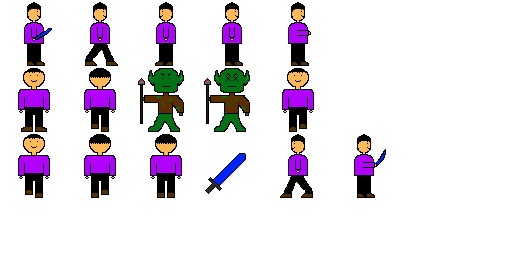
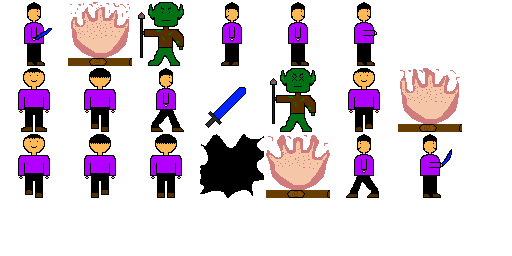
made fire class and animation for fire

diff --git a/core/src/main/java/com/app/adventureone/Main.java b/core/src/main/java/com/app/adventureone/Main.java
@@ -20,6 +20,8 @@ public class Main extends ApplicationAdapter {
     private DeadGoblin deadGoblin;
     private Goblin goblin;
     private Sword sword;
+    private Hole hole;
+    private Fire fire;
     private float deltaTime;
     private ButtonHandler buttonHandler;
 
@@ -33,7 +35,9 @@ public class Main extends ApplicationAdapter {
         goblin = new Goblin(atlas, new Vector2(96, 96), 32, new Rectangle(96, 96, 32, 32), 75, 10);
         deadGoblin = new DeadGoblin(atlas, new Vector2(96, 96), 32, new Rectangle(96, 96, 32, 32), 0, 0, goblin);
         sword = new Sword(atlas, new Vector2(192, 192),32, new Rectangle(192, 192, 32, 32), 2);
-        player = new Player(atlas, new Vector2(0,0), 32, new Rectangle(0, 0, 32, 32), goblin, 100, 25, sword);
+        hole = new Hole(atlas, new Vector2(608, 96), new Rectangle(608, 96, 32, 32),32);
+        player = new Player(atlas, new Vector2(0,0), 32, new Rectangle(0, 0, 32, 32), goblin, 100, 25, sword, hole);
+        fire = new Fire(atlas, new Vector2(256, 256), new Rectangle(256, 256, 32, 32), 32);
         buttonHandler = new ButtonHandler(player);
     }
 
@@ -58,8 +62,10 @@ public class Main extends ApplicationAdapter {
         goblin.draw(batch);
         deadGoblin.draw(batch);
         sword.draw(batch);
+        hole.draw(batch);
+        fire.draw(batch);
+        fire.render(deltaTime);
         player.draw(batch);
-        buttonHandler.font.draw(batch, "test", 100f, 0f);
         batch.end();
 
         if (buttonHandler.isDebug) {
@@ -68,6 +74,8 @@ public class Main extends ApplicationAdapter {
             renderer.rect(player.position.x, player.position.y, player.size, player.size);
             renderer.rect(goblin.position.x, goblin.position.y, goblin.size, goblin.size);
             renderer.rect(sword.position.x, sword.position.y, sword.size, sword.size);
+            renderer.rect(hole.position.x, hole.position.y, hole.size, hole.size);
+            renderer.rect(fire.position.x, fire.position.y, fire.size, fire.size);
             renderer.end();
         }
     }
@@ -79,5 +87,6 @@ public class Main extends ApplicationAdapter {
         renderer.dispose();
         buttonHandler.stage.dispose();
         buttonHandler.font.dispose();
+        player.inventory.clear();
     }
 }

diff --git a/core/src/main/java/com/app/adventureone/Player.java b/core/src/main/java/com/app/adventureone/Player.java
@@ -2,6 +2,7 @@ package com.app.adventureone;
 
 import com.badlogic.gdx.Gdx;
 import com.badlogic.gdx.Input;
+import com.badlogic.gdx.graphics.GL20;
 import com.badlogic.gdx.graphics.g2d.SpriteBatch;
 import com.badlogic.gdx.graphics.g2d.TextureAtlas;
 import com.badlogic.gdx.math.Rectangle;
@@ -19,13 +20,15 @@ public class Player extends Entity {
     private String direction = "down";
     private Goblin goblin;
     private Sword sword;
+    private Hole hole;
     public ArrayList<String> inventory;
 
 
-    public Player(TextureAtlas atlas, Vector2 position, int size, Rectangle rect, Goblin goblin, int hp, int strength, Sword sword) {
+    public Player(TextureAtlas atlas, Vector2 position, int size, Rectangle rect, Goblin goblin, int hp, int strength, Sword sword, Hole hole) {
         super(atlas, "hero", position, size, rect, hp, strength);
         this.goblin = goblin;
         this.sword = sword;
+        this.hole = hole;
 
         inventory = new ArrayList<>();
     }
@@ -111,6 +114,13 @@ public class Player extends Entity {
                 inventory.add("Sword");
                 sword.sprite.setAlpha(0);
             }
+        }
+
+        if (rect.overlaps(hole.rect)) {
+            Gdx.gl.glClearColor(0, 0, 0, 1f);
+            Gdx.gl.glClear(GL20.GL_COLOR_BUFFER_BIT);
+            sword.sprite.setAlpha(0);
+            goblin.sprite.setAlpha(0);
         }
     }
 

diff --git a/core/src/main/java/com/app/adventureone/Fire.java b/core/src/main/java/com/app/adventureone/Fire.java
@@ -1,0 +1,33 @@
+package com.app.adventureone;
+
+import com.badlogic.gdx.graphics.g2d.Animation;
+import com.badlogic.gdx.graphics.g2d.SpriteBatch;
+import com.badlogic.gdx.graphics.g2d.TextureAtlas;
+import com.badlogic.gdx.graphics.g2d.TextureRegion;
+import com.badlogic.gdx.math.Rectangle;
+import com.badlogic.gdx.math.Vector2;
+
+public class Fire extends Asset {
+
+    private Animation<TextureAtlas.AtlasRegion> fireAnimation;
+
+
+    public Fire(TextureAtlas atlas, Vector2 position, Rectangle rect, int size) {
+        super(atlas, "fire", position, rect, size);
+
+        fireAnimation = new Animation<>(0.3f, atlas.findRegions("fire"));
+        fireAnimation.setPlayMode(Animation.PlayMode.LOOP_RANDOM);
+        fireAnimation.getKeyFrame(0);
+    }
+
+    @Override
+    public void draw(SpriteBatch batch) {
+        sprite.setPosition(position.x, position.y);
+        sprite.draw(batch);
+    }
+
+    public void render(float deltaTime) {
+        TextureRegion region = fireAnimation.getKeyFrame(deltaTime, true);
+        sprite.setRegion(region);
+    }
+}

diff --git a/core/src/main/java/com/app/adventureone/Asset.java b/core/src/main/java/com/app/adventureone/Asset.java
@@ -3,6 +3,7 @@ package com.app.adventureone;
 import com.badlogic.gdx.graphics.g2d.Sprite;
 import com.badlogic.gdx.graphics.g2d.SpriteBatch;
 import com.badlogic.gdx.graphics.g2d.TextureAtlas;
+import com.badlogic.gdx.math.Rectangle;
 import com.badlogic.gdx.math.Vector2;
 
 public class Asset {
@@ -10,18 +11,22 @@ public class Asset {
     public TextureAtlas atlas;
     public Sprite sprite;
     public Vector2 position;
+    public Rectangle rect;
     public int size;
 
-    public Asset(TextureAtlas atlas, String sprite, Vector2 position, int size) {
+    public Asset(TextureAtlas atlas, String sprite, Vector2 position, Rectangle rect, int size) {
 
         this.atlas = atlas;
         this.sprite = new Sprite(atlas.findRegion(sprite));
+        this.sprite.setSize(size, size);
         this.position = position;
+        this.rect = rect;
         this.size = size;
     }
 
     public void draw(SpriteBatch batch) {
         sprite.setPosition(position.x, position.y);
         sprite.draw(batch);
+        rect.setPosition(position.x, position.y);
     }
 }

diff --git a/core/src/main/java/com/app/adventureone/Hole.java b/core/src/main/java/com/app/adventureone/Hole.java
@@ -1,0 +1,19 @@
+package com.app.adventureone;
+
+import com.badlogic.gdx.graphics.g2d.Sprite;
+import com.badlogic.gdx.graphics.g2d.SpriteBatch;
+import com.badlogic.gdx.graphics.g2d.TextureAtlas;
+import com.badlogic.gdx.math.Rectangle;
+import com.badlogic.gdx.math.Vector2;
+
+public class Hole extends Asset {
+
+    public Hole(TextureAtlas atlas, Vector2 position, Rectangle rect, int size) {
+        super(atlas, "hole_in_floor", position, rect, size);
+    }
+
+    public void draw(SpriteBatch batch) {
+        sprite.setPosition(position.x, position.y);
+        sprite.draw(batch);
+    }
+}
